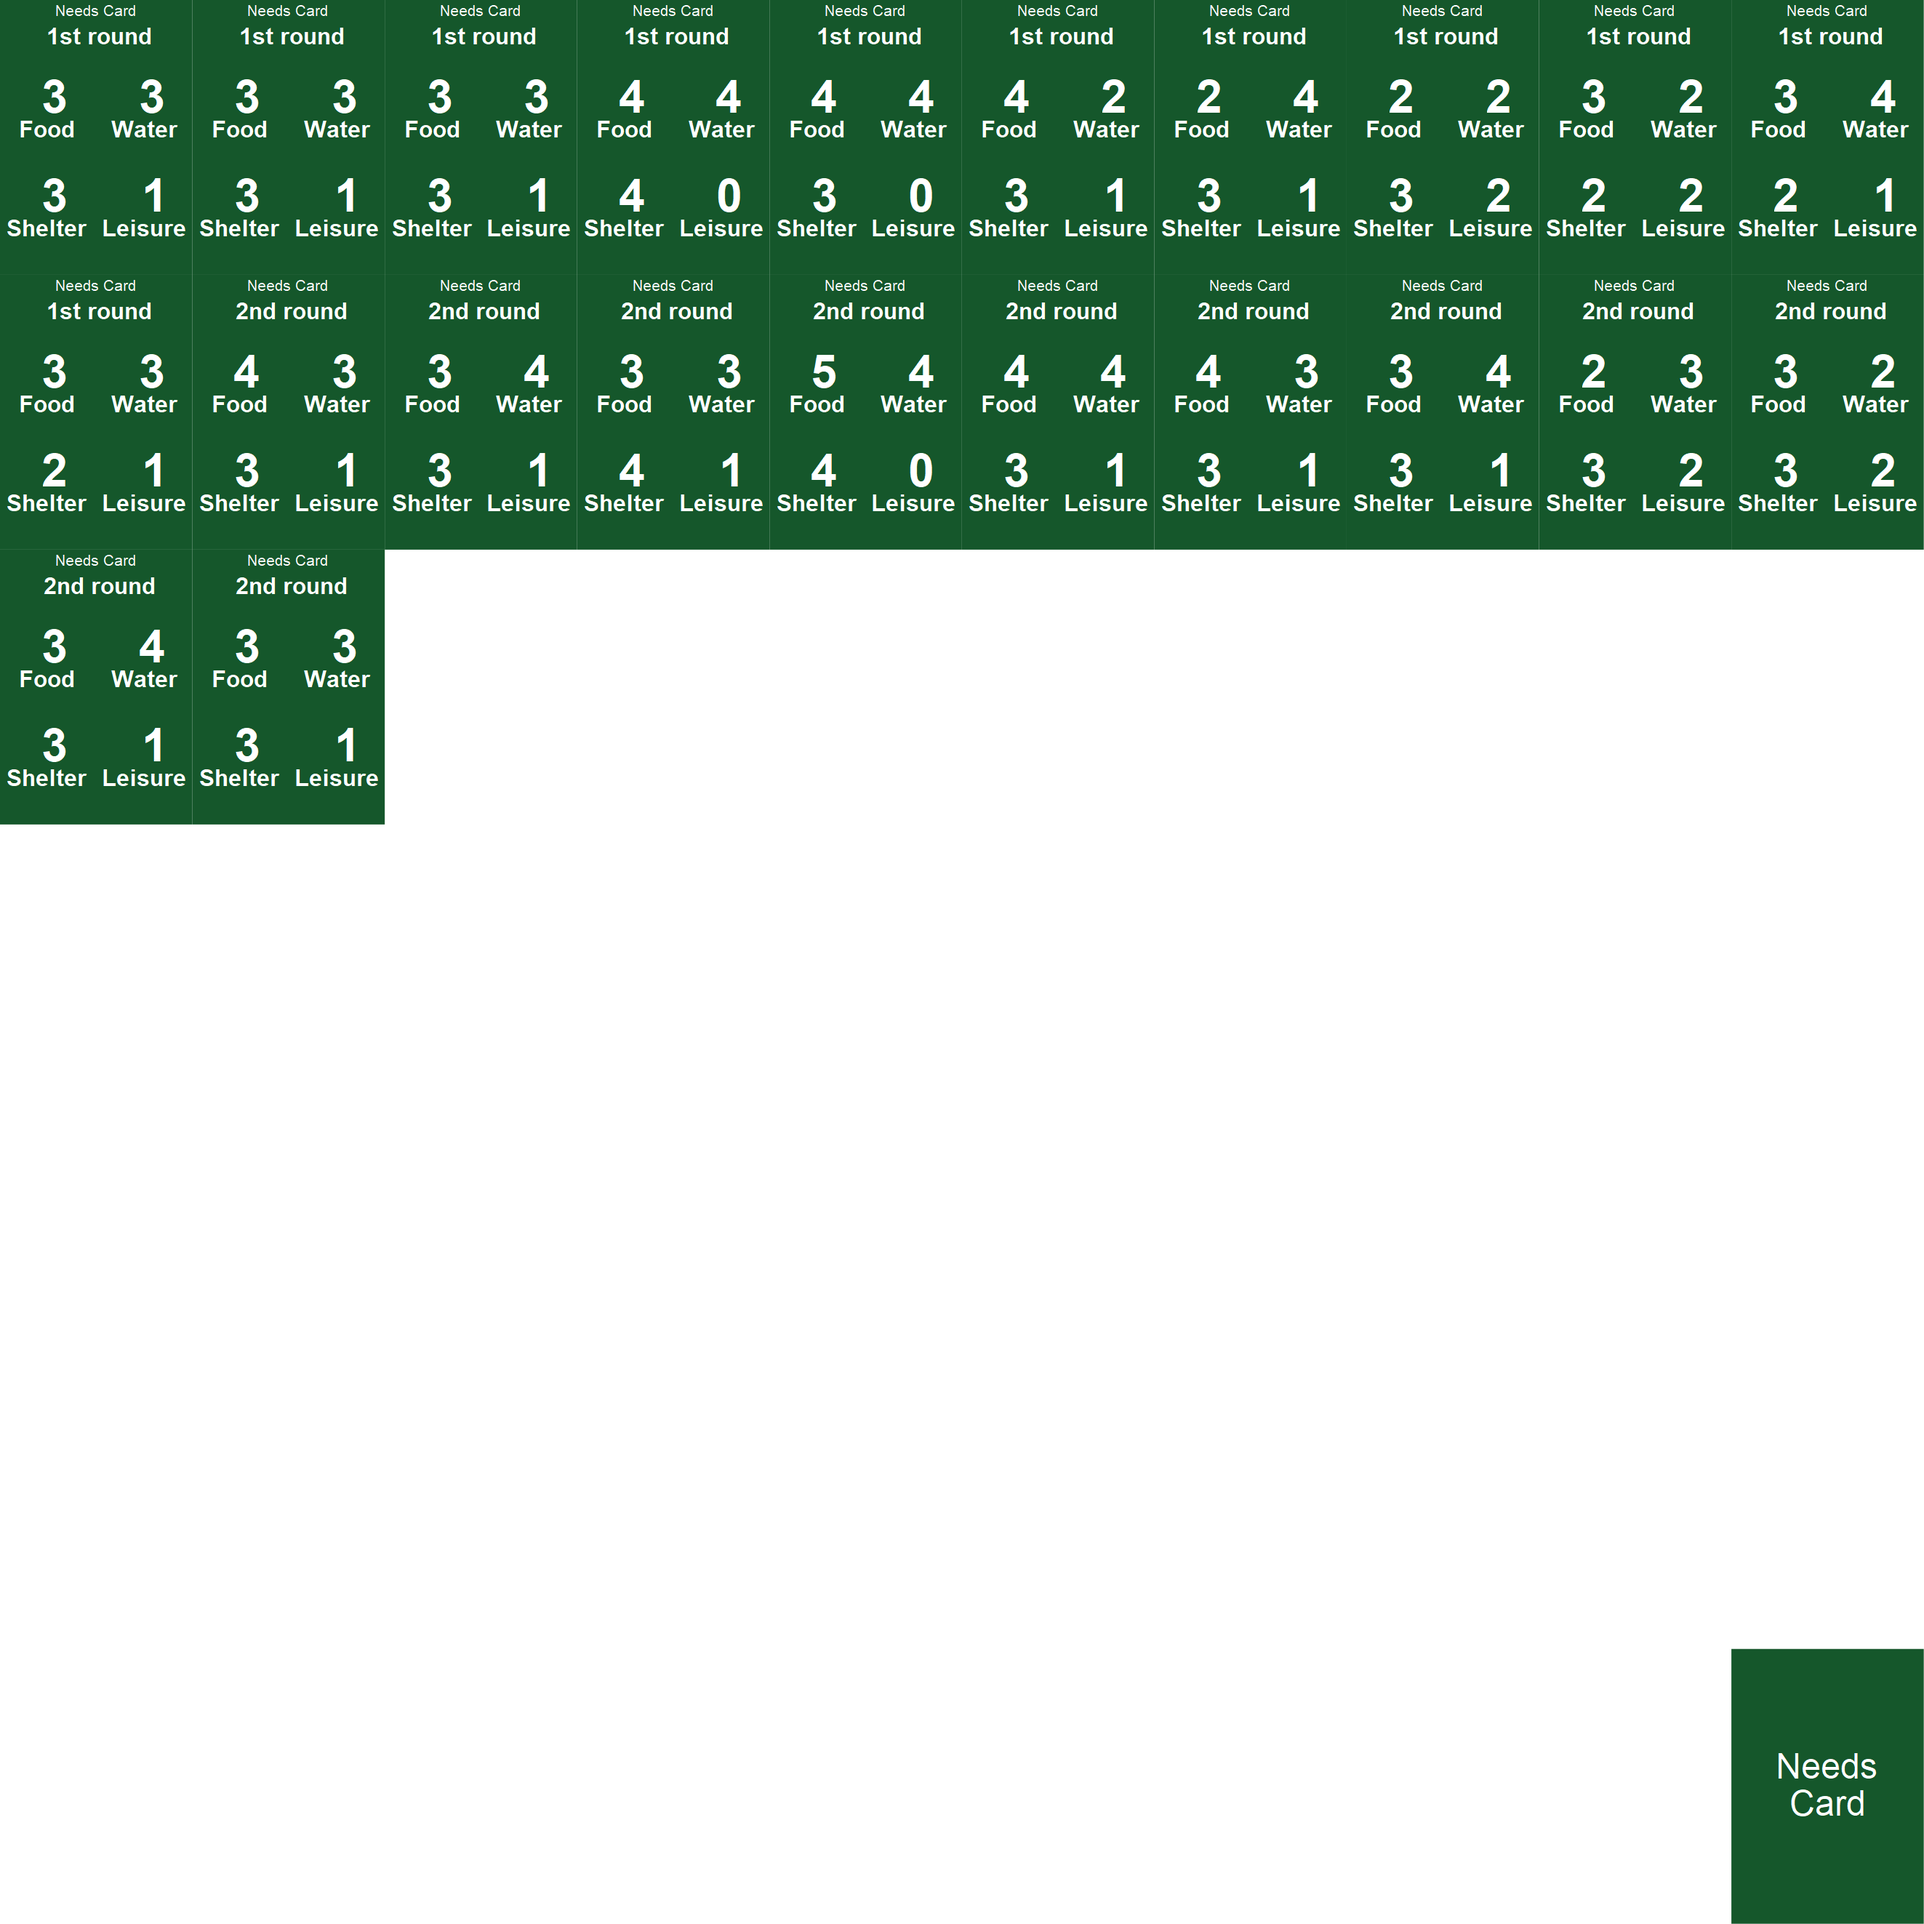
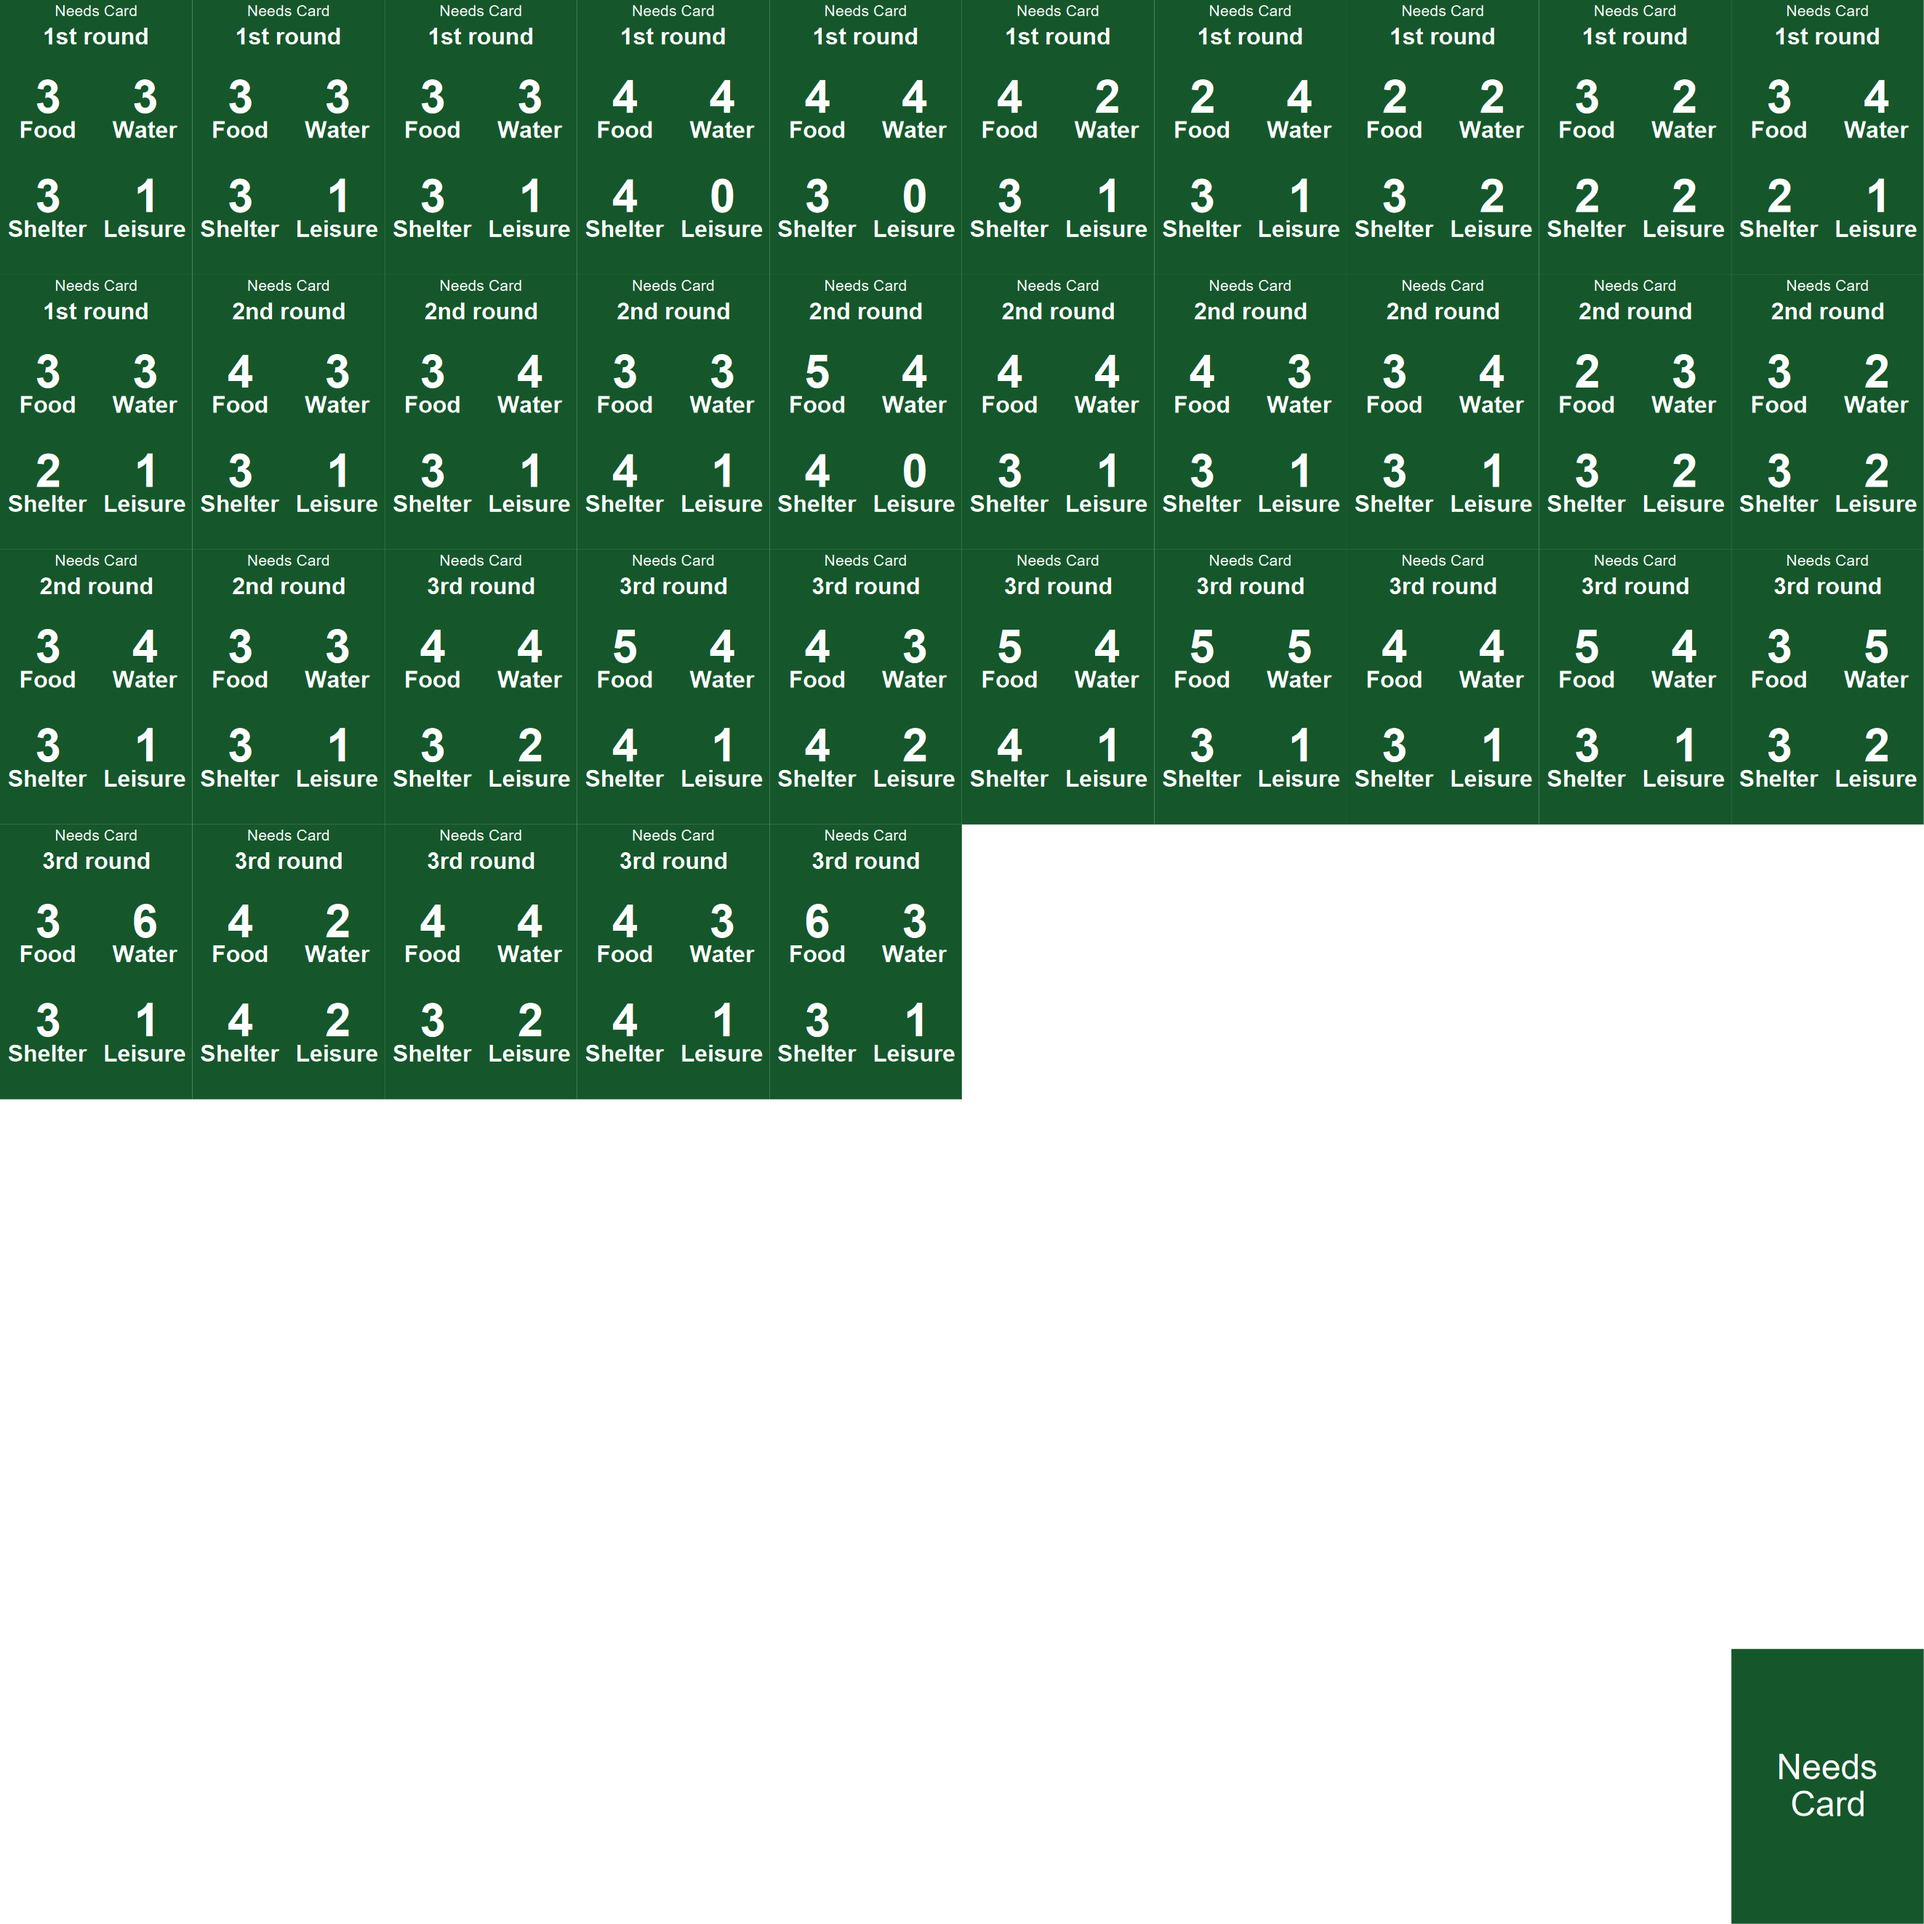
3rd round needs and change secret actions

diff --git a/generate.py b/generate.py
@@ -9,6 +9,7 @@ from cairosvg import svg2png
 for deck in ("action", "event", "needs", "punishment", "secret"):
 	with open(f"{path}{deck}/{deck}.tsv") as file:
 		data = list(csv.reader(file, delimiter="\t"))
+		print(deck)
 		cards = [{data[0][i]: line[i] for i in range(len(data[0]))} for line in data[1:]]
 
 	with open(f"{path}{deck}/{deck}_template.svg") as file:
